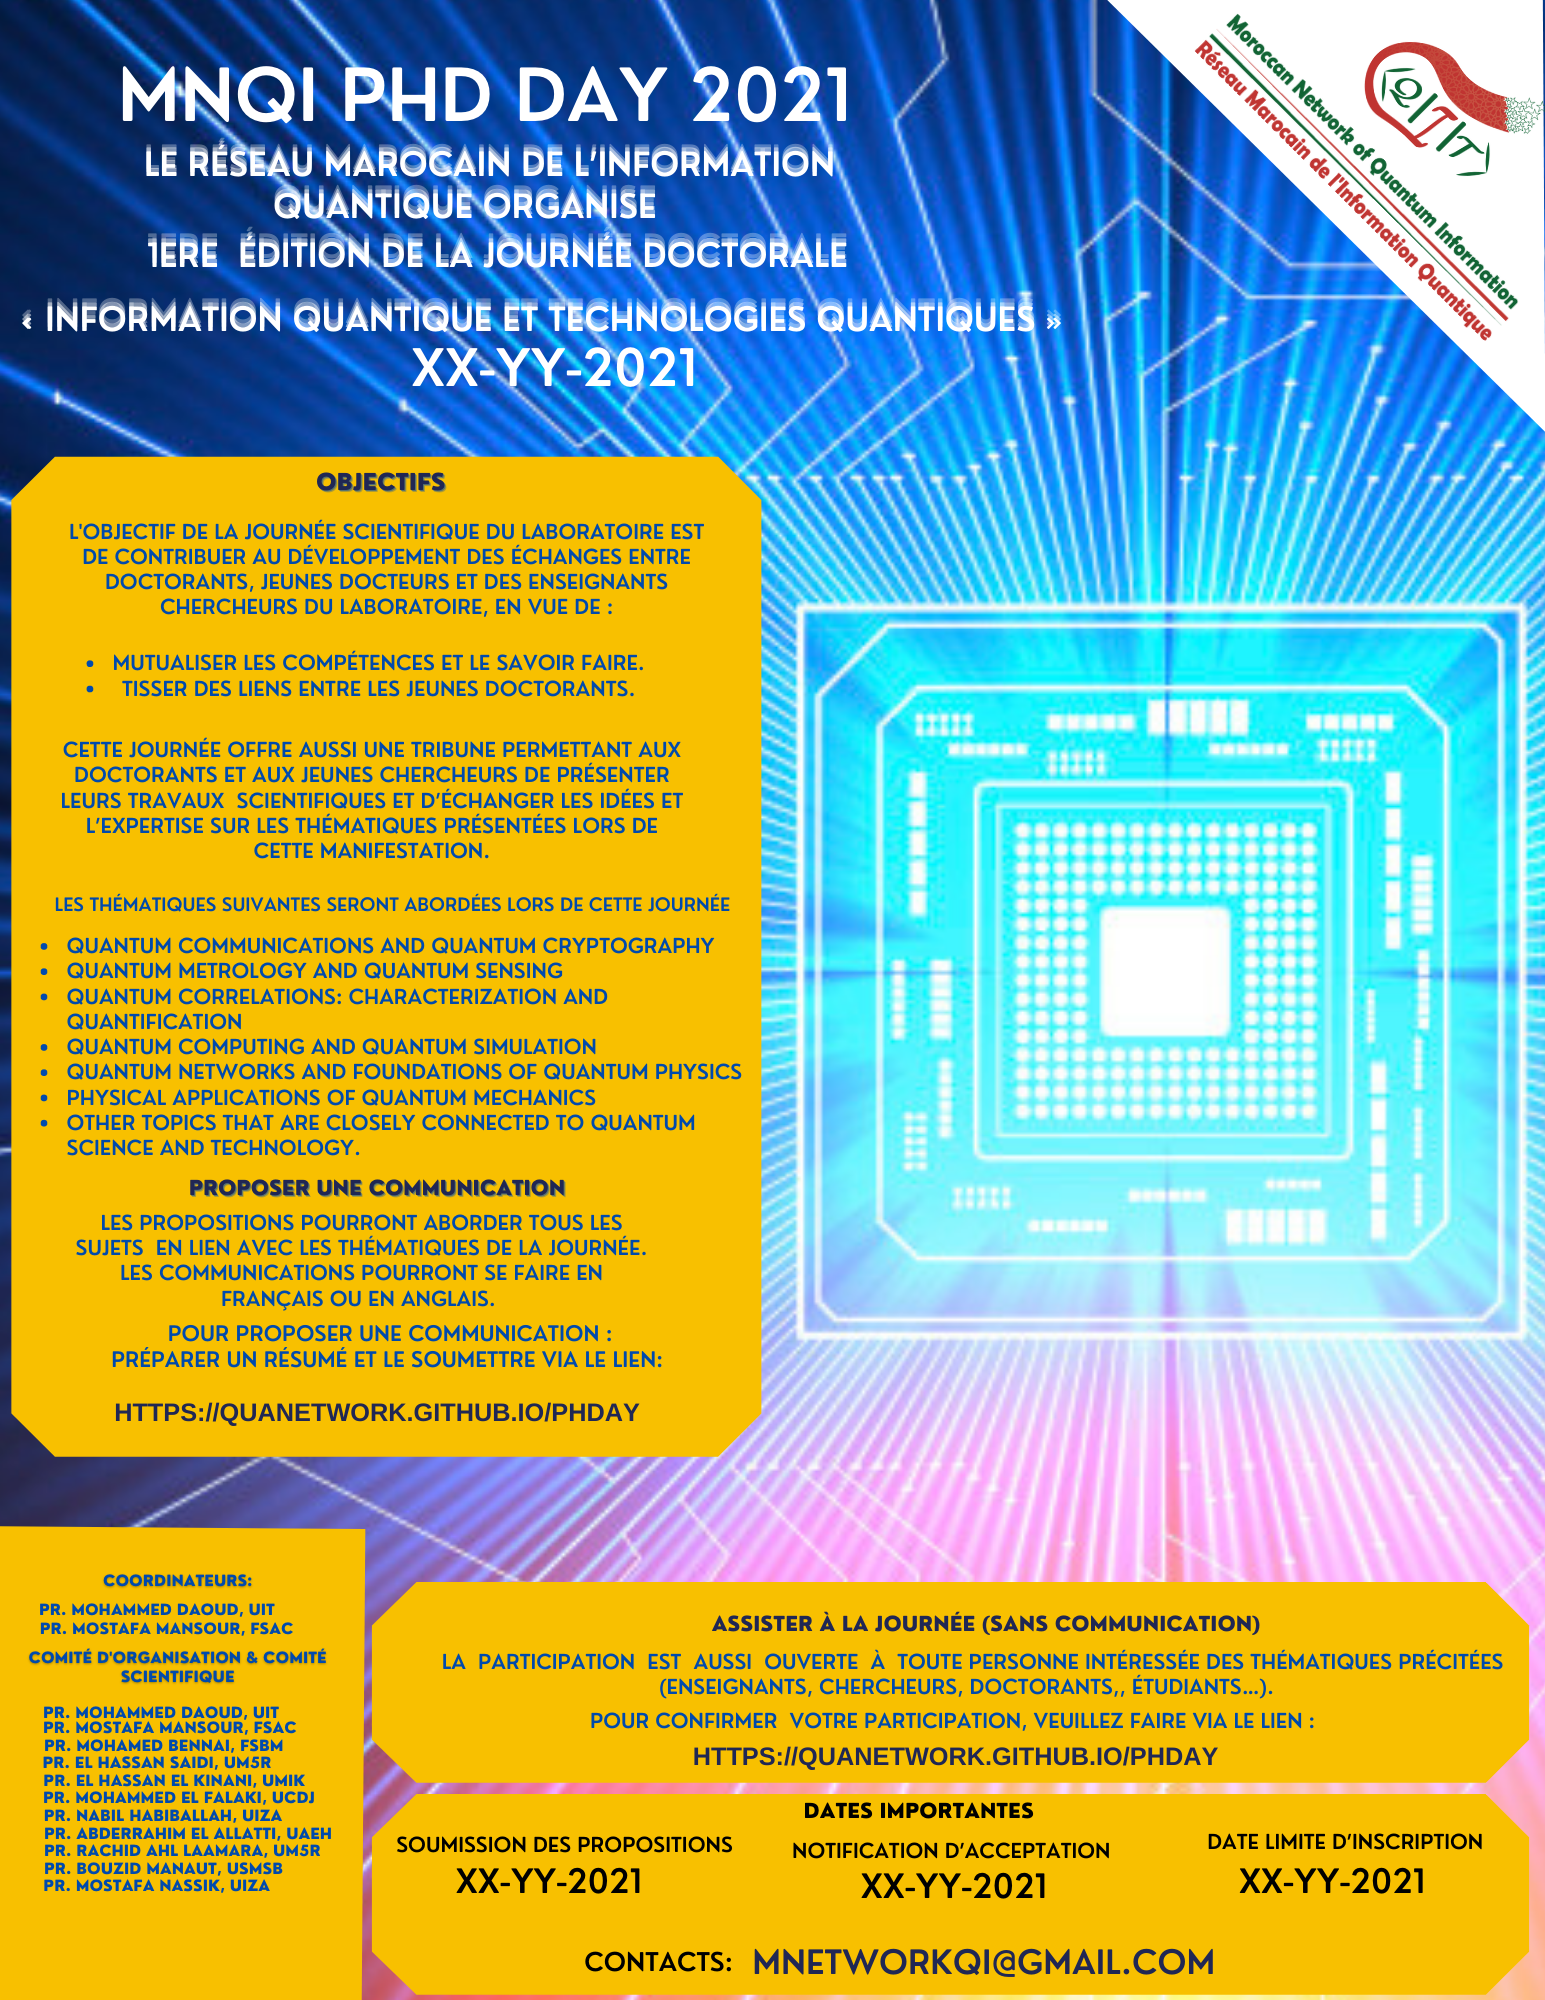
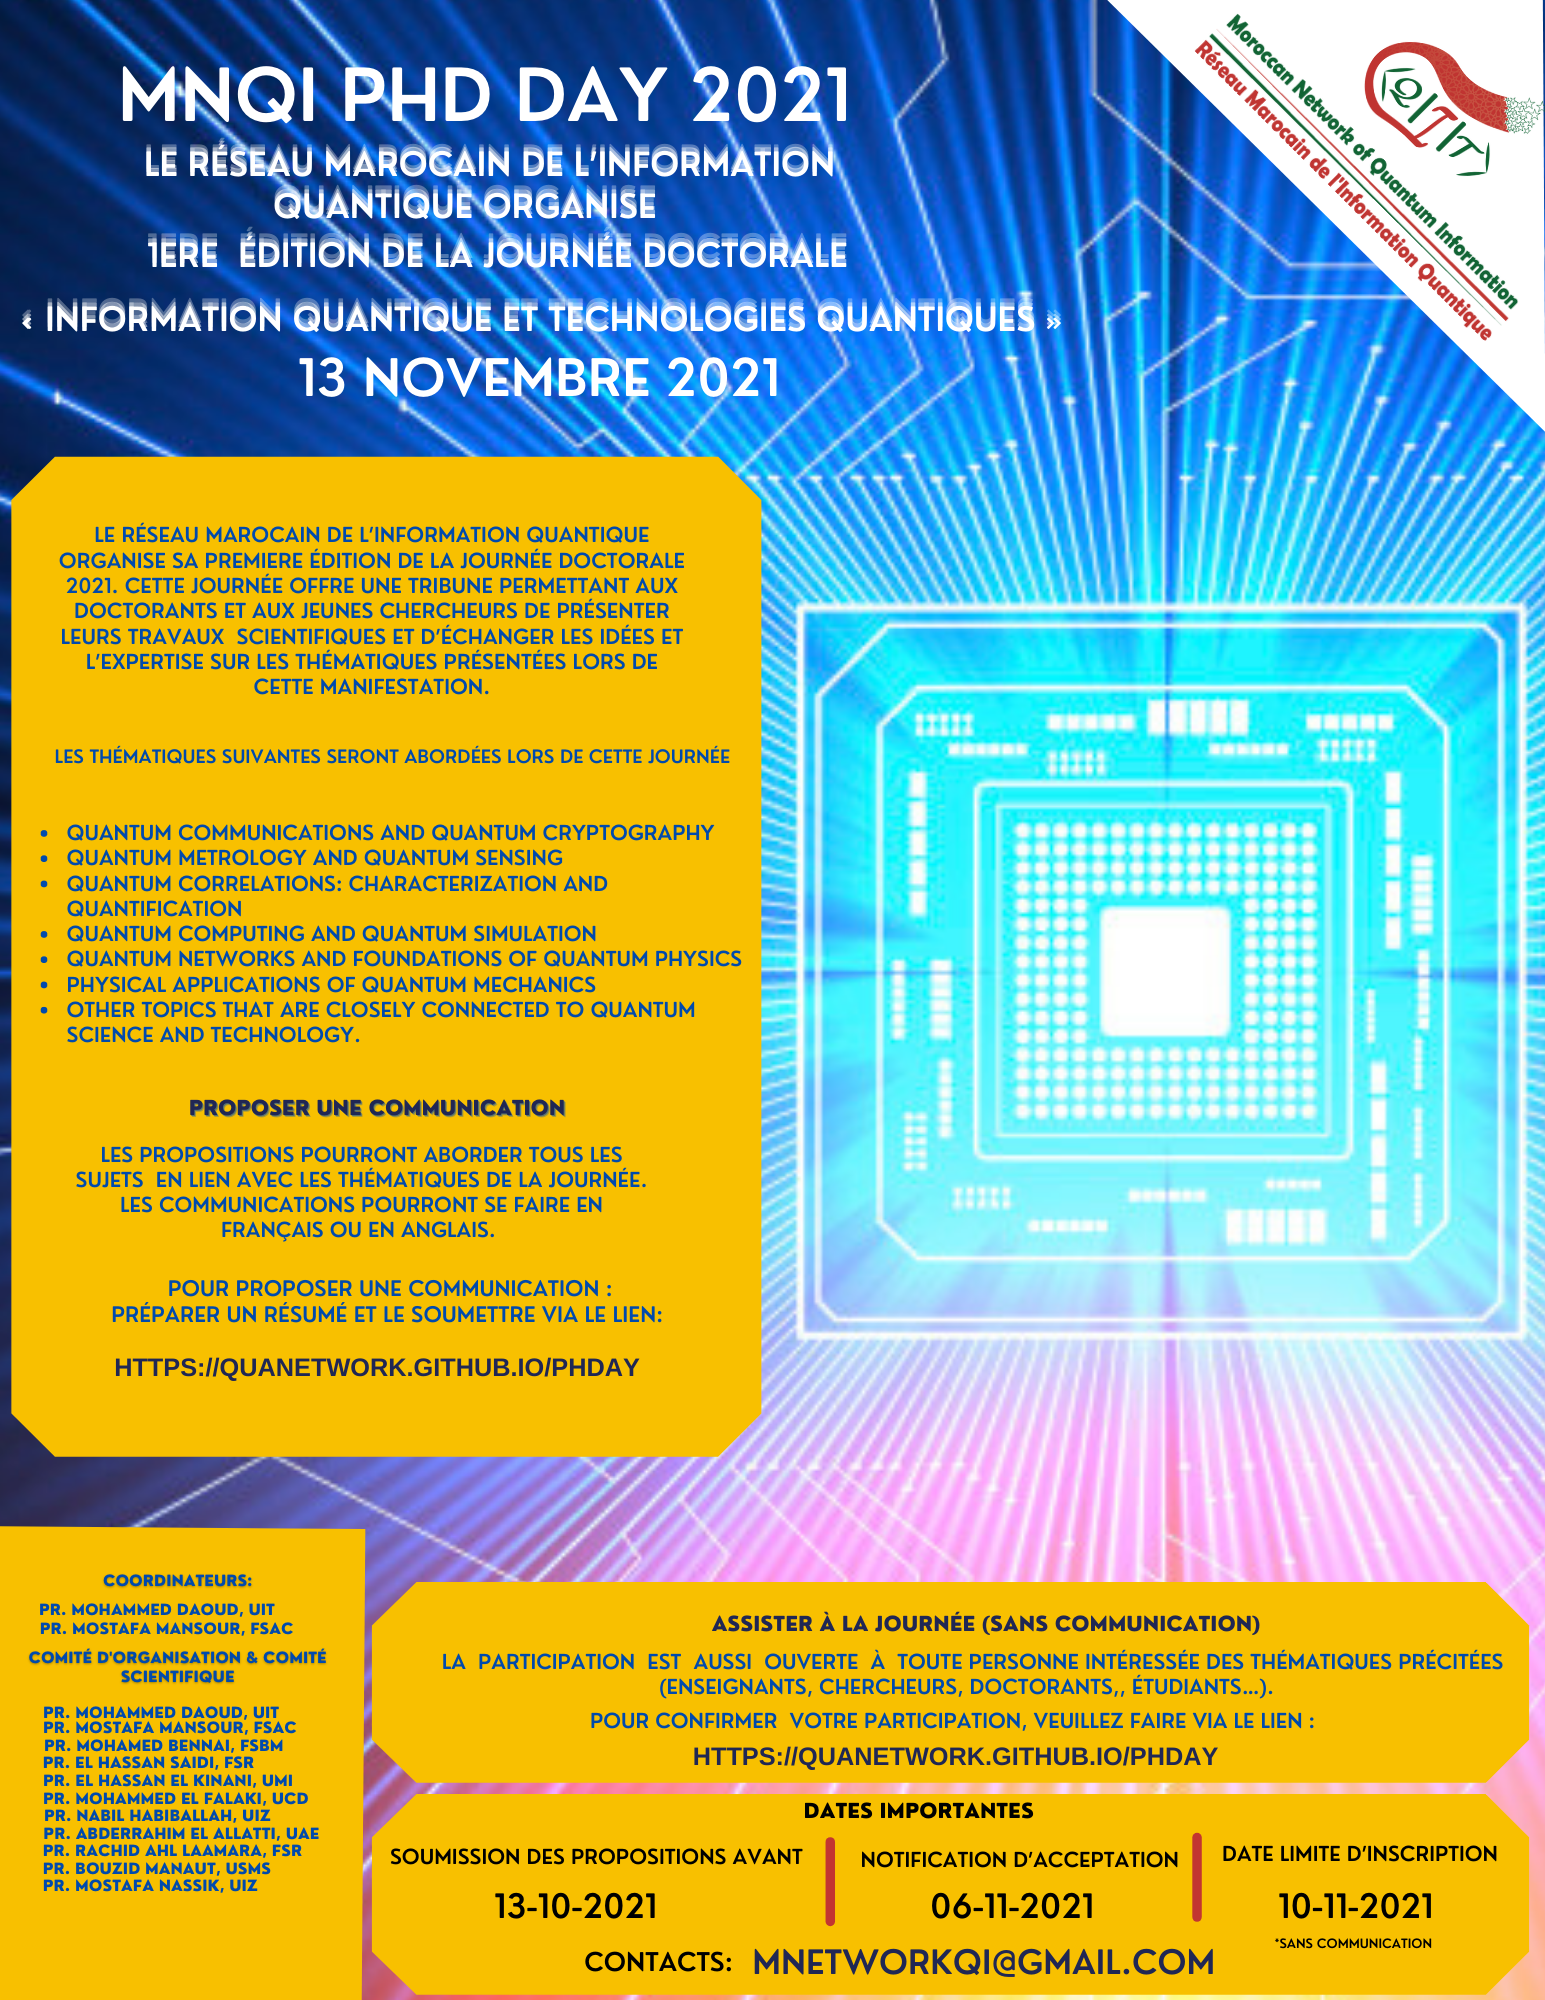
update

diff --git a/phday.html b/phday.html
@@ -157,7 +157,7 @@
 <center>
 <img width="1500" height="512" src="./images/talks.jpg" alt="" srcset="./images/qday.png" sizes="(max-width: 212px) 100vw, 212px">
 
-<p><strong>Date:</strong> xx,xx, 2021 | hh:mm (GMT+1) [Online]</p>
+<p><strong>Date:</strong> 13-11-2021 | 08:30 (GMT+1) [Online]</p>
 
 
 <br>
